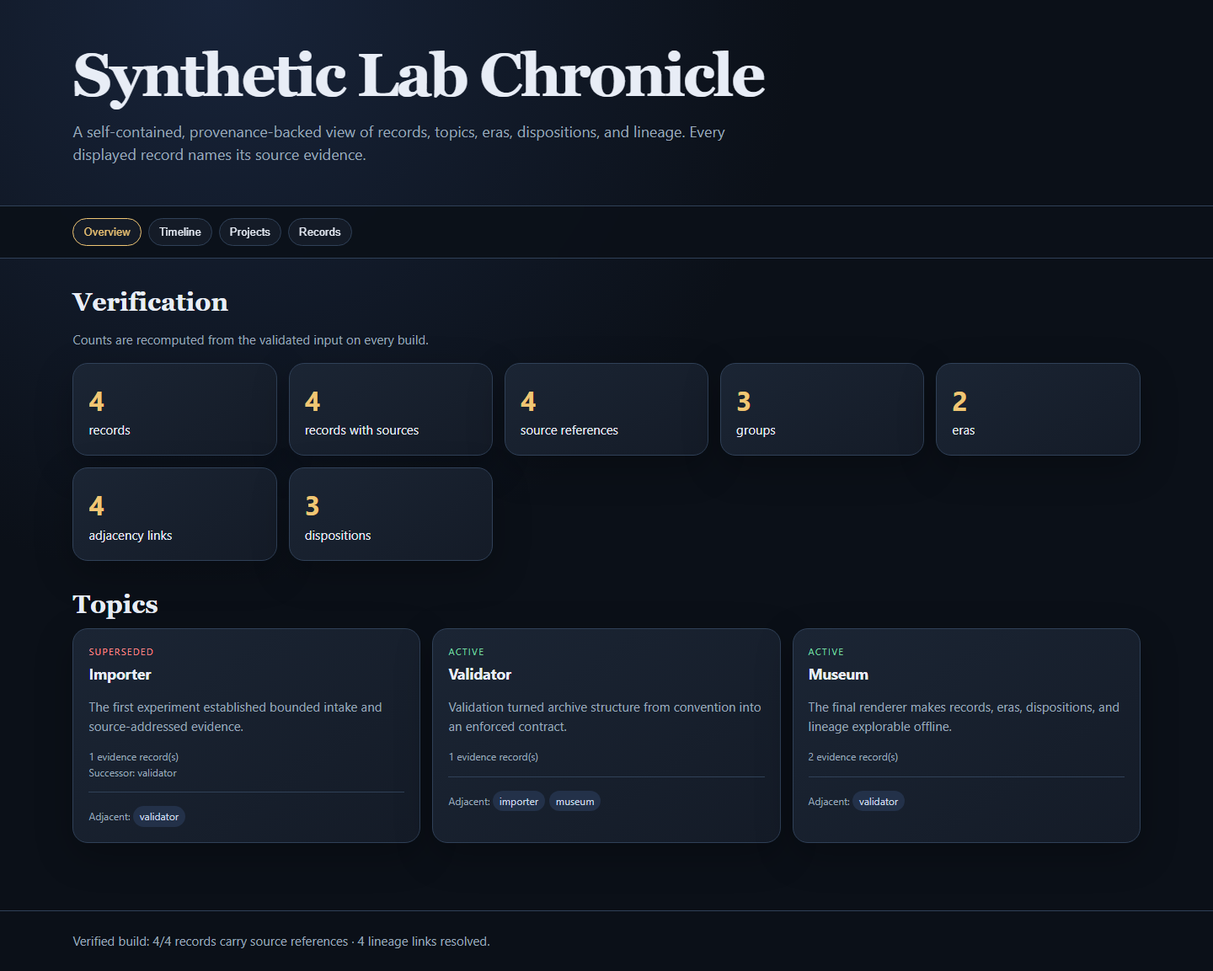
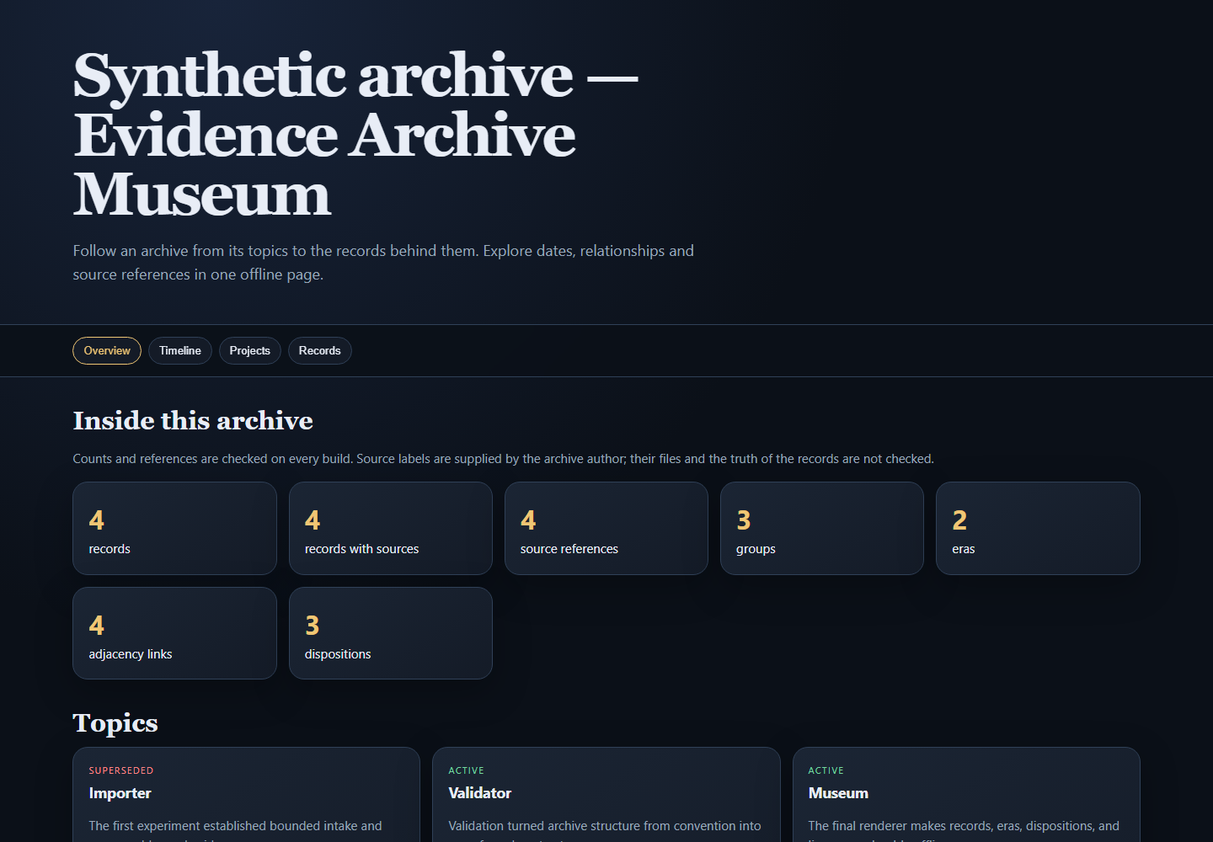
Let archive topics lead directly to searchable supporting records

diff --git a/example-site/index.html b/example-site/index.html
@@ -3,7 +3,7 @@
 <head>
 <meta charset="utf-8">
 <meta name="viewport" content="width=device-width,initial-scale=1">
-<title>Synthetic Lab Chronicle</title>
+<title>Synthetic archive — Evidence Archive Museum</title>
 <style>
 :root{--ink:#e8edf6;--muted:#9aa8ba;--panel:#141b27;--panel2:#1b2534;--line:#304158;--gold:#f0c674;--blue:#72b7ff;--green:#75d6a2;--red:#ff8585;--bg:#0b1018}
 *{box-sizing:border-box} body{margin:0;background:radial-gradient(circle at 18% 0,#18243a 0,transparent 42%),var(--bg);color:var(--ink);font:15px/1.55 Inter,ui-sans-serif,system-ui,sans-serif}
@@ -13,16 +13,17 @@ main{padding:34px clamp(22px,6vw,90px) 80px} section{display:none} section.activ
 .stats,.grid{display:grid;grid-template-columns:repeat(auto-fit,minmax(220px,1fr));gap:14px} .card,.stat,.era{background:linear-gradient(145deg,var(--panel2),var(--panel));border:1px solid var(--line);border-radius:18px;padding:18px;box-shadow:0 14px 44px #0004} .stat strong{display:block;color:var(--gold);font-size:32px} .card{min-height:150px} .tag{display:inline-block;margin:4px 5px 0 0;padding:3px 8px;border-radius:999px;background:#233149;color:#cbd8ea;font-size:12px} .status{color:var(--green);text-transform:uppercase;letter-spacing:.12em;font-size:11px} .superseded{color:var(--red)}
 .timeline{border-left:2px solid var(--line);margin-left:10px;padding-left:24px} .era{position:relative;margin:0 0 18px} .era:before{content:"";position:absolute;left:-33px;top:22px;width:16px;height:16px;border-radius:50%;background:var(--gold);box-shadow:0 0 22px var(--gold)}
 input{width:min(620px,100%);background:#0e1520;border:1px solid var(--line);border-radius:12px;padding:12px 14px;color:var(--ink);font:inherit;margin:12px 0 20px} .adjacent{margin-top:14px;padding-top:12px;border-top:1px solid var(--line)} footer{padding:24px clamp(22px,6vw,90px);border-top:1px solid var(--line);color:var(--muted)}
+.record-route{display:block;margin-top:16px;border-color:var(--blue);color:var(--blue)} button:focus-visible,input:focus-visible{outline:2px solid var(--gold);outline-offset:4px} [hidden]{display:none!important} .empty{padding:18px;border:1px dashed var(--line);border-radius:12px;color:var(--muted)}
 </style>
 </head>
 <body>
-<header><h1 id="museum-title"></h1><p class="lead">A self-contained, provenance-backed view of records, topics, eras, dispositions, and lineage. Every displayed record names its source evidence.</p></header>
+<header><h1 id="museum-title"></h1><p class="lead">Follow an archive from its topics to the records behind them. Explore dates, relationships and source references in one offline page.</p></header>
 <nav id="nav"></nav>
 <main>
-<section id="overview" class="active"><h2>Verification</h2><p class="muted">Counts are recomputed from the validated input on every build.</p><div id="stats" class="stats"></div><h2 style="margin-top:34px">Topics</h2><div id="overview-groups" class="grid"></div></section>
+<section id="overview" class="active"><h2>Inside this archive</h2><p class="muted">Counts and references are checked on every build. Source labels are supplied by the archive author; their files and the truth of the records are not checked.</p><div id="stats" class="stats"></div><h2 style="margin-top:34px">Topics</h2><div id="overview-groups" class="grid"></div></section>
 <section id="timeline"><h2>Timeline</h2><p class="muted">Eras are ordered from their ISO date ranges.</p><div id="eras" class="timeline"></div></section>
-<section id="projects"><h2>Projects and topics</h2><input id="group-search" placeholder="Filter topics, status, narrative…"><div id="groups" class="grid"></div></section>
-<section id="records"><h2>Evidence records</h2><input id="record-search" placeholder="Filter titles, summaries, tags, or source paths…"><div id="record-list" class="grid"></div></section>
+<section id="projects"><h2>Projects and topics</h2><input id="group-search" aria-label="Search topics" placeholder="Filter topics, status, narrative…"><div id="groups" class="grid"></div></section>
+<section id="records"><h2>Evidence records</h2><p id="record-scope" class="muted" aria-live="polite">All records</p><button id="clear-record-scope" hidden>Show all records</button><input id="record-search" aria-label="Search records" placeholder="Filter titles, summaries, tags, or source paths…"><div id="record-list" class="grid"></div></section>
 </main>
 <footer id="footer"></footer>
 <script type="application/json" id="archive-data">{"records":[{"id":"record-001","title":"First bounded importer","summary":"A prototype imported three synthetic notes and recorded a source path for every item.","date":"2025-03-12","sources":["evidence/importer/run-001.json"],"tags":["import","provenance"]},{"id":"record-002","title":"Validator added","summary":"Cross-reference validation began rejecting groups that pointed at missing records.","date":"2025-05-04","sources":["evidence/validator/test-report.json"],"tags":["validation","evidence"]},{"id":"record-003","title":"Offline museum generated","summary":"The archive became a dependency-free HTML view with searchable records and eras.","date":"2025-08-19","sources":["evidence/museum/build-summary.json"],"tags":["offline","visualization"]},{"id":"record-004","title":"Lineage made explicit","summary":"Supersession and adjacency were stored as data instead of inferred from prose.","date":"2025-09-02","sources":["evidence/lineage/review.md"],"tags":["lineage","governance"]}],"groups":[{"id":"importer","title":"Importer","narrative":"The first experiment established bounded intake and source-addressed evidence.","record_ids":["record-001"],"adjacent":["validator"]},{"id":"validator","title":"Validator","narrative":"Validation turned archive structure from convention into an enforced contract.","record_ids":["record-002"],"adjacent":["importer","museum"]},{"id":"museum","title":"Museum","narrative":"The final renderer makes records, eras, dispositions, and lineage explorable offline.","record_ids":["record-003","record-004"],"adjacent":["validator"]}],"eras":[{"id":"foundation","title":"Foundation","summary":"Intake and validation established the evidence contract.","start":"2025-03-01","end":"2025-06-30","group_ids":["importer","validator"]},{"id":"publication","title":"Publication","summary":"The archive gained a public-facing offline projection and explicit lineage.","start":"2025-07-01","end":"2025-12-31","group_ids":["museum"]}],"dispositions":{"importer":{"status":"superseded","successor":"validator","notes":"The importer remains as lineage evidence."},"validator":{"status":"active","successor":"","notes":"The contract remains reusable."},"museum":{"status":"active","successor":"","notes":"Current public projection."}},"verification":{"records":4,"records_with_sources":4,"source_references":4,"groups":3,"eras":2,"adjacency_links":4,"dispositions":3}}</script>
@@ -30,19 +31,23 @@ input{width:min(620px,100%);background:#0e1520;border:1px solid var(--line);bord
 const data=JSON.parse(document.getElementById('archive-data').textContent);
 const views=['overview','timeline','projects','records'];
 const el=(tag,text,cls)=>{const n=document.createElement(tag);if(text!==undefined)n.textContent=text;if(cls)n.className=cls;return n};
-document.getElementById('museum-title').textContent="Synthetic Lab Chronicle";
+document.getElementById('museum-title').textContent="Synthetic archive \u2014 Evidence Archive Museum";
 const nav=document.getElementById('nav');
-views.forEach((name,i)=>{const b=el('button',name[0].toUpperCase()+name.slice(1));b.className=i===0?'active':'';b.onclick=()=>{document.querySelectorAll('main section').forEach(s=>s.classList.toggle('active',s.id===name));nav.querySelectorAll('button').forEach(x=>x.classList.toggle('active',x===b))};nav.appendChild(b)});
+function showView(name){document.querySelectorAll('main section').forEach(s=>s.classList.toggle('active',s.id===name));nav.querySelectorAll('button').forEach(b=>{b.classList.toggle('active',b.dataset.view===name);b.setAttribute('aria-current',b.dataset.view===name?'page':'false')})}
+views.forEach(name=>{const b=el('button',name[0].toUpperCase()+name.slice(1));b.dataset.view=name;b.onclick=()=>{if(name==='records')showRecords(null);else showView(name)};nav.appendChild(b)});showView('overview');
+let selectedGroup=null;
+function showRecords(group){selectedGroup=group;document.getElementById('record-search').value='';document.getElementById('record-scope').textContent=group?'Records in '+group.title:'All records';document.getElementById('clear-record-scope').hidden=!group;renderRecords();showView('records');document.getElementById('record-search').focus()}
 Object.entries(data.verification).forEach(([k,v])=>{const n=el('div',undefined,'stat');n.append(el('strong',String(v)),el('span',k.replaceAll('_',' ')));document.getElementById('stats').appendChild(n)});
 const disposition=id=>data.dispositions[id]||{status:'record',successor:'',notes:''};
-function groupCard(g){const d=disposition(g.id),n=el('article',undefined,'card');const status=el('div',d.status,'status '+(d.status==='superseded'?'superseded':''));n.append(status,el('h3',g.title),el('p',g.narrative,'muted'),el('div',g.record_ids.length+' evidence record(s)','source'));if(d.successor)n.appendChild(el('div','Successor: '+d.successor,'source'));if(g.adjacent.length){const a=el('div',undefined,'adjacent');a.appendChild(el('span','Adjacent: ','source'));g.adjacent.forEach(x=>a.appendChild(el('span',x,'tag')));n.appendChild(a)}return n}
+function groupCard(g){const d=disposition(g.id),n=el('article',undefined,'card');const status=el('div',d.status,'status '+(d.status==='superseded'?'superseded':''));n.append(status,el('h3',g.title),el('p',g.narrative,'muted'),el('div',g.record_ids.length+' evidence record(s)','source'));if(d.successor)n.appendChild(el('div','Successor: '+d.successor,'source'));if(g.adjacent.length){const a=el('div',undefined,'adjacent');a.appendChild(el('span','Adjacent: ','source'));g.adjacent.forEach(x=>a.appendChild(el('span',x,'tag')));n.appendChild(a)}const button=el('button','Read '+g.record_ids.length+' record'+(g.record_ids.length===1?'':'s'),'record-route');button.setAttribute('aria-label','Read records in '+g.title);button.onclick=()=>showRecords(g);n.appendChild(button);return n}
 function recordCard(r){const n=el('article',undefined,'card');n.append(el('div',r.date,'status'),el('h3',r.title),el('p',r.summary,'muted'));const tags=el('div');r.tags.forEach(x=>tags.appendChild(el('span',x,'tag')));n.appendChild(tags);const sources=el('div',undefined,'adjacent');r.sources.forEach(x=>sources.appendChild(el('div',x,'source')));n.appendChild(sources);return n}
 data.groups.forEach(g=>document.getElementById('overview-groups').appendChild(groupCard(g)));
 data.eras.forEach(e=>{const n=el('article',undefined,'era');n.append(el('div',e.start+' → '+e.end,'status'),el('h3',e.title),el('p',e.summary,'muted'));const g=el('div');e.group_ids.forEach(x=>g.appendChild(el('span',x,'tag')));n.appendChild(g);document.getElementById('eras').appendChild(n)});
-function renderGroups(q=''){const root=document.getElementById('groups');root.replaceChildren();const needle=q.toLowerCase();data.groups.filter(g=>JSON.stringify([g,disposition(g.id)]).toLowerCase().includes(needle)).forEach(g=>root.appendChild(groupCard(g)))}
-function renderRecords(q=''){const root=document.getElementById('record-list');root.replaceChildren();const needle=q.toLowerCase();data.records.filter(r=>JSON.stringify(r).toLowerCase().includes(needle)).forEach(r=>root.appendChild(recordCard(r)))}
+function renderGroups(q=''){const root=document.getElementById('groups');root.replaceChildren();const needle=q.toLowerCase();const matches=data.groups.filter(g=>JSON.stringify([g,disposition(g.id)]).toLowerCase().includes(needle));matches.forEach(g=>root.appendChild(groupCard(g)));if(!matches.length)root.appendChild(el('p','No topics match. Try another term or clear the search.','empty'))}
+function renderRecords(q=''){const root=document.getElementById('record-list');root.replaceChildren();const needle=q.toLowerCase();const matches=data.records.filter(r=>(!selectedGroup||selectedGroup.record_ids.includes(r.id))&&JSON.stringify(r).toLowerCase().includes(needle));matches.forEach(r=>root.appendChild(recordCard(r)));if(!matches.length)root.appendChild(el('p','No records match this view. Clear the search or choose Show all records.','empty'))}
+document.getElementById('clear-record-scope').onclick=()=>showRecords(null);
 document.getElementById('group-search').oninput=e=>renderGroups(e.target.value);document.getElementById('record-search').oninput=e=>renderRecords(e.target.value);renderGroups();renderRecords();
-document.getElementById('footer').textContent=`Verified build: ${data.verification.records_with_sources}/${data.verification.records} records carry source references · ${data.verification.adjacency_links} lineage links resolved.`;
+document.getElementById('footer').textContent=`Structure checked: ${data.verification.records_with_sources}/${data.verification.records} records carry source labels · ${data.verification.adjacency_links} adjacency references resolved. Source contents are not embedded or fetched.`;
 </script>
 </body>
 </html>

diff --git a/evidence_archive_museum/render.py b/evidence_archive_museum/render.py
@@ -36,16 +36,17 @@ main{{padding:34px clamp(22px,6vw,90px) 80px}} section{{display:none}} section.a
 .stats,.grid{{display:grid;grid-template-columns:repeat(auto-fit,minmax(220px,1fr));gap:14px}} .card,.stat,.era{{background:linear-gradient(145deg,var(--panel2),var(--panel));border:1px solid var(--line);border-radius:18px;padding:18px;box-shadow:0 14px 44px #0004}} .stat strong{{display:block;color:var(--gold);font-size:32px}} .card{{min-height:150px}} .tag{{display:inline-block;margin:4px 5px 0 0;padding:3px 8px;border-radius:999px;background:#233149;color:#cbd8ea;font-size:12px}} .status{{color:var(--green);text-transform:uppercase;letter-spacing:.12em;font-size:11px}} .superseded{{color:var(--red)}}
 .timeline{{border-left:2px solid var(--line);margin-left:10px;padding-left:24px}} .era{{position:relative;margin:0 0 18px}} .era:before{{content:"";position:absolute;left:-33px;top:22px;width:16px;height:16px;border-radius:50%;background:var(--gold);box-shadow:0 0 22px var(--gold)}}
 input{{width:min(620px,100%);background:#0e1520;border:1px solid var(--line);border-radius:12px;padding:12px 14px;color:var(--ink);font:inherit;margin:12px 0 20px}} .adjacent{{margin-top:14px;padding-top:12px;border-top:1px solid var(--line)}} footer{{padding:24px clamp(22px,6vw,90px);border-top:1px solid var(--line);color:var(--muted)}}
+.record-route{{display:block;margin-top:16px;border-color:var(--blue);color:var(--blue)}} button:focus-visible,input:focus-visible{{outline:2px solid var(--gold);outline-offset:4px}} [hidden]{{display:none!important}} .empty{{padding:18px;border:1px dashed var(--line);border-radius:12px;color:var(--muted)}}
 </style>
 </head>
 <body>
-<header><h1 id="museum-title"></h1><p class="lead">A self-contained, provenance-backed view of records, topics, eras, dispositions, and lineage. Every displayed record names its source evidence.</p></header>
+<header><h1 id="museum-title"></h1><p class="lead">Follow an archive from its topics to the records behind them. Explore dates, relationships and source references in one offline page.</p></header>
 <nav id="nav"></nav>
 <main>
-<section id="overview" class="active"><h2>Verification</h2><p class="muted">Counts are recomputed from the validated input on every build.</p><div id="stats" class="stats"></div><h2 style="margin-top:34px">Topics</h2><div id="overview-groups" class="grid"></div></section>
+<section id="overview" class="active"><h2>Inside this archive</h2><p class="muted">Counts and references are checked on every build. Source labels are supplied by the archive author; their files and the truth of the records are not checked.</p><div id="stats" class="stats"></div><h2 style="margin-top:34px">Topics</h2><div id="overview-groups" class="grid"></div></section>
 <section id="timeline"><h2>Timeline</h2><p class="muted">Eras are ordered from their ISO date ranges.</p><div id="eras" class="timeline"></div></section>
-<section id="projects"><h2>Projects and topics</h2><input id="group-search" placeholder="Filter topics, status, narrative…"><div id="groups" class="grid"></div></section>
-<section id="records"><h2>Evidence records</h2><input id="record-search" placeholder="Filter titles, summaries, tags, or source paths…"><div id="record-list" class="grid"></div></section>
+<section id="projects"><h2>Projects and topics</h2><input id="group-search" aria-label="Search topics" placeholder="Filter topics, status, narrative…"><div id="groups" class="grid"></div></section>
+<section id="records"><h2>Evidence records</h2><p id="record-scope" class="muted" aria-live="polite">All records</p><button id="clear-record-scope" hidden>Show all records</button><input id="record-search" aria-label="Search records" placeholder="Filter titles, summaries, tags, or source paths…"><div id="record-list" class="grid"></div></section>
 </main>
 <footer id="footer"></footer>
 <script type="application/json" id="archive-data">{data}</script>
@@ -55,17 +56,21 @@ const views=['overview','timeline','projects','records'];
 const el=(tag,text,cls)=>{{const n=document.createElement(tag);if(text!==undefined)n.textContent=text;if(cls)n.className=cls;return n}};
 document.getElementById('museum-title').textContent={title_json};
 const nav=document.getElementById('nav');
-views.forEach((name,i)=>{{const b=el('button',name[0].toUpperCase()+name.slice(1));b.className=i===0?'active':'';b.onclick=()=>{{document.querySelectorAll('main section').forEach(s=>s.classList.toggle('active',s.id===name));nav.querySelectorAll('button').forEach(x=>x.classList.toggle('active',x===b))}};nav.appendChild(b)}});
+function showView(name){{document.querySelectorAll('main section').forEach(s=>s.classList.toggle('active',s.id===name));nav.querySelectorAll('button').forEach(b=>{{b.classList.toggle('active',b.dataset.view===name);b.setAttribute('aria-current',b.dataset.view===name?'page':'false')}})}}
+views.forEach(name=>{{const b=el('button',name[0].toUpperCase()+name.slice(1));b.dataset.view=name;b.onclick=()=>{{if(name==='records')showRecords(null);else showView(name)}};nav.appendChild(b)}});showView('overview');
+let selectedGroup=null;
+function showRecords(group){{selectedGroup=group;document.getElementById('record-search').value='';document.getElementById('record-scope').textContent=group?'Records in '+group.title:'All records';document.getElementById('clear-record-scope').hidden=!group;renderRecords();showView('records');document.getElementById('record-search').focus()}}
 Object.entries(data.verification).forEach(([k,v])=>{{const n=el('div',undefined,'stat');n.append(el('strong',String(v)),el('span',k.replaceAll('_',' ')));document.getElementById('stats').appendChild(n)}});
 const disposition=id=>data.dispositions[id]||{{status:'record',successor:'',notes:''}};
-function groupCard(g){{const d=disposition(g.id),n=el('article',undefined,'card');const status=el('div',d.status,'status '+(d.status==='superseded'?'superseded':''));n.append(status,el('h3',g.title),el('p',g.narrative,'muted'),el('div',g.record_ids.length+' evidence record(s)','source'));if(d.successor)n.appendChild(el('div','Successor: '+d.successor,'source'));if(g.adjacent.length){{const a=el('div',undefined,'adjacent');a.appendChild(el('span','Adjacent: ','source'));g.adjacent.forEach(x=>a.appendChild(el('span',x,'tag')));n.appendChild(a)}}return n}}
+function groupCard(g){{const d=disposition(g.id),n=el('article',undefined,'card');const status=el('div',d.status,'status '+(d.status==='superseded'?'superseded':''));n.append(status,el('h3',g.title),el('p',g.narrative,'muted'),el('div',g.record_ids.length+' evidence record(s)','source'));if(d.successor)n.appendChild(el('div','Successor: '+d.successor,'source'));if(g.adjacent.length){{const a=el('div',undefined,'adjacent');a.appendChild(el('span','Adjacent: ','source'));g.adjacent.forEach(x=>a.appendChild(el('span',x,'tag')));n.appendChild(a)}}const button=el('button','Read '+g.record_ids.length+' record'+(g.record_ids.length===1?'':'s'),'record-route');button.setAttribute('aria-label','Read records in '+g.title);button.onclick=()=>showRecords(g);n.appendChild(button);return n}}
 function recordCard(r){{const n=el('article',undefined,'card');n.append(el('div',r.date,'status'),el('h3',r.title),el('p',r.summary,'muted'));const tags=el('div');r.tags.forEach(x=>tags.appendChild(el('span',x,'tag')));n.appendChild(tags);const sources=el('div',undefined,'adjacent');r.sources.forEach(x=>sources.appendChild(el('div',x,'source')));n.appendChild(sources);return n}}
 data.groups.forEach(g=>document.getElementById('overview-groups').appendChild(groupCard(g)));
 data.eras.forEach(e=>{{const n=el('article',undefined,'era');n.append(el('div',e.start+' → '+e.end,'status'),el('h3',e.title),el('p',e.summary,'muted'));const g=el('div');e.group_ids.forEach(x=>g.appendChild(el('span',x,'tag')));n.appendChild(g);document.getElementById('eras').appendChild(n)}});
-function renderGroups(q=''){{const root=document.getElementById('groups');root.replaceChildren();const needle=q.toLowerCase();data.groups.filter(g=>JSON.stringify([g,disposition(g.id)]).toLowerCase().includes(needle)).forEach(g=>root.appendChild(groupCard(g)))}}
-function renderRecords(q=''){{const root=document.getElementById('record-list');root.replaceChildren();const needle=q.toLowerCase();data.records.filter(r=>JSON.stringify(r).toLowerCase().includes(needle)).forEach(r=>root.appendChild(recordCard(r)))}}
+function renderGroups(q=''){{const root=document.getElementById('groups');root.replaceChildren();const needle=q.toLowerCase();const matches=data.groups.filter(g=>JSON.stringify([g,disposition(g.id)]).toLowerCase().includes(needle));matches.forEach(g=>root.appendChild(groupCard(g)));if(!matches.length)root.appendChild(el('p','No topics match. Try another term or clear the search.','empty'))}}
+function renderRecords(q=''){{const root=document.getElementById('record-list');root.replaceChildren();const needle=q.toLowerCase();const matches=data.records.filter(r=>(!selectedGroup||selectedGroup.record_ids.includes(r.id))&&JSON.stringify(r).toLowerCase().includes(needle));matches.forEach(r=>root.appendChild(recordCard(r)));if(!matches.length)root.appendChild(el('p','No records match this view. Clear the search or choose Show all records.','empty'))}}
+document.getElementById('clear-record-scope').onclick=()=>showRecords(null);
 document.getElementById('group-search').oninput=e=>renderGroups(e.target.value);document.getElementById('record-search').oninput=e=>renderRecords(e.target.value);renderGroups();renderRecords();
-document.getElementById('footer').textContent=`Verified build: ${{data.verification.records_with_sources}}/${{data.verification.records}} records carry source references · ${{data.verification.adjacency_links}} lineage links resolved.`;
+document.getElementById('footer').textContent=`Structure checked: ${{data.verification.records_with_sources}}/${{data.verification.records}} records carry source labels · ${{data.verification.adjacency_links}} adjacency references resolved. Source contents are not embedded or fetched.`;
 </script>
 </body>
 </html>'''

diff --git a/README.md b/README.md
@@ -1,6 +1,10 @@
 # Evidence Archive Museum
 
-Build a portable, searchable exhibit from a structured archive. A small set of JSON/JSONL files becomes one self-contained HTML page with record, group and era navigation.
+Turn a folder of structured records into an exhibit someone can explore: start with a topic, open the records behind it, and follow its dates and relationships.
+
+The idea came from a practical archive problem: a polished story can lose its connection to the material it describes. Here the page is generated from explicit records, memberships and source references. Change the data and rebuild the view. The [public extraction](ORIGIN.md) replaces the original private archive with a small JSON contract and invented examples.
+
+**A portable offline generator.** Python builds one HTML file; the reader needs a browser and no account, service or database. [Walk through the example](docs/WORKED-EXAMPLE.md) · [Prepare your own archive](DATA_FORMAT.md)
 
 ![Synthetic demonstration](docs/images/museum-desktop.png)
 
@@ -14,15 +18,28 @@ python -m evidence_archive_museum.cli validate examples/synthetic_archive
 python -m evidence_archive_museum.cli build examples/synthetic_archive --output demo-museum.html
 ```
 
-Open `demo-museum.html` locally, or inspect the included [example exhibit](example-site/index.html). The [synthetic archive](examples/synthetic_archive/records.jsonl) has four records, three groups, two eras and four source references. Edit a copy of the input and rebuild to see how its relationships change. Existing output is protected unless `--force` is passed.
+Open `demo-museum.html` locally, or download and open the included [example exhibit](example-site/index.html). The [synthetic archive](examples/synthetic_archive/records.jsonl) has four records, three groups, two eras and four source references. Choose **Read 2 records** on the Museum topic: you should see “Offline museum generated” and “Lineage made explicit.” Search within that group, then choose **Show all records** to return to the full set.
+
+These four events and their source labels are invented demonstration data, not a history of this project's development. The [worked example](docs/WORKED-EXAMPLE.md) traces the inputs and explains every counter. Edit a copy of the input and rebuild to see how its relationships change. Existing output is protected unless `--force` is passed.
 
 ## How it works
 
-A small archive can carry its own navigable presentation without a service or database. Read the [mechanism and implementation notes](docs/MECHANISM.md) for the specific boundaries and source links.
+1. Load records, topic memberships, eras and dispositions from four files.
+2. Reject duplicate IDs, missing references, unsupported statuses and invalid date ranges.
+3. Recompute counts and embed the accepted data with the reader's code in one HTML file.
+4. Search and navigate that embedded data locally. No source files are opened by the reader.
+
+[Follow the implementation](docs/MECHANISM.md). Topic adjacency means a declared relationship; succession is separately recorded in dispositions. Neither is inferred from a title or a narrative.
 
 ## Scope
 
 Validation establishes internal structure, not truth of the records. Source-path fields are labels rather than links that the tool fetches. Treat archive inputs as the deliberate public selection: the renderer cannot decide which source material you are authorized to share.
+
+Use it for a selected project chronicle, experiment collection or small evidence catalogue. A private research vault requiring access controls, attached documents or automatic updates needs additional machinery. The input limits are 10,000 records, 1,000 groups and 200 eras, with file-size caps; these are validation limits, not a performance claim at those sizes.
+
+## Possible next steps
+
+Useful extensions could include an explicit reviewed attachment bundle and saved links to an individual record. These are current possibilities, not implemented features or a release promise. Keeping the exhibit portable and making source access deliberate are the design constraints for either.
 
 ## Verify
 

diff --git a/docs/WORKED-EXAMPLE.md b/docs/WORKED-EXAMPLE.md
@@ -1,0 +1,46 @@
+# From one record to an explorable archive
+
+This example is completely synthetic. The event dates, story and source paths illustrate the format; no original private records or evidence files are included.
+
+## Follow the Museum topic
+
+In [records.jsonl](../examples/synthetic_archive/records.jsonl), `record-003` is “Offline museum generated.” It has a date, a summary, tags and the label `evidence/museum/build-summary.json`. That label tells a reader what evidence the author refers to. It is not a file the tool has found or verified.
+
+In [groups.json](../examples/synthetic_archive/groups.json), the `museum` group explicitly lists `record-003` and `record-004`. The reader's **Read 2 records** button selects exactly those IDs. Searching `lineage` within that view leaves only “Lineage made explicit.” **Show all records** clears both the group selection and the search.
+
+In [eras.json](../examples/synthetic_archive/eras.json), `publication` lists the `museum` group for its July–December 2025 range. An era is authored grouping data; the loader checks ordered dates and valid group references. It does not automatically derive era membership from record dates or verify that every record lies within that interval.
+
+In [dispositions.json](../examples/synthetic_archive/dispositions.json), `museum` is active, while `importer` is superseded by `validator`. A successor is a separate claim from adjacency. The four directed adjacency references are importer → validator, validator → importer, validator → museum, and museum → validator.
+
+## Reproduce the build
+
+From a checkout, after installing with `python -m pip install -e .`:
+
+```sh
+python -m evidence_archive_museum.cli validate examples/synthetic_archive
+python -m evidence_archive_museum.cli build examples/synthetic_archive --output demo-museum.html --title "Synthetic archive — Evidence Archive Museum"
+```
+
+The validation prints:
+
+```json
+{
+  "records": 4,
+  "records_with_sources": 4,
+  "source_references": 4,
+  "groups": 3,
+  "eras": 2,
+  "adjacency_links": 4,
+  "dispositions": 3
+}
+```
+
+`records_with_sources` counts records containing at least one source label. `source_references` counts the labels, including repeats if supplied. `adjacency_links` counts the directed entries above; it is not the number of unique undirected pairs. None measures whether the evidence supports the author's claim.
+
+Open the HTML file in your browser. Overview shows these counts and topic cards; Timeline shows the two authored eras; Projects lets you search topics; Records lets you search the full set or a selected topic's members. The page contains its own script, style and data and needs no server. JavaScript is required for the interactive reader.
+
+## Make a safe change
+
+Copy the four example input files to a new directory. Change `record-003`'s title, validate that copied directory, and build to a new output filename. The record's topic membership stays intact because the group references its stable ID, not its title. Changing the ID without updating the group instead fails validation with a missing-record reference.
+
+Building to an existing output without `--force` fails and keeps the old file. Use a new filename when comparing editions. The inputs are read; the build writes only the requested output and its temporary file. Archive review and privacy selection happen before generation.

diff --git a/docs/MECHANISM.md b/docs/MECHANISM.md
@@ -2,6 +2,10 @@
 
 [load_archive](../evidence_archive_museum/archive.py) validates identities, source labels and references among records/groups/eras/dispositions. [render_html](../evidence_archive_museum/render.py) embeds the validated data safely into a portable reader and writes the final page atomically. See [DATA_FORMAT.md](../DATA_FORMAT.md) for the input schema. The output needs no server or database.
 
+The CLI loads and validates before rendering. `render_html` serializes only the normalized archive, escapes characters that could break out of its JSON script element, and uses DOM text content for record prose. `write_html` writes and flushes a temporary file beside the destination before replacing the destination. The CLI requires `--force` for an existing file; direct callers of `write_html` are responsible for their overwrite policy.
+
+The reader holds no separate database: topic-to-record navigation selects the exact IDs in `record_ids` from the embedded data. A record search is applied within that selection until **Show all records** or the Records navigation button clears it. The four input files remain the source of truth; editing the HTML does not update them. See the [worked example](WORKED-EXAMPLE.md) for one record's complete path.
+
 ## Limits that matter
 
 Validation establishes internal structure, not truth of the records. Source-path fields are labels rather than links that the tool fetches. Treat archive inputs as the deliberate public selection: the renderer cannot decide which source material you are authorized to share.

diff --git a/CHANGELOG.md b/CHANGELOG.md
@@ -1,0 +1,7 @@
+# Changes
+
+## 1.1.0
+
+Topic cards open their exact member records. Record search can stay within that topic, with an explicit route back to all records; empty searches explain how to recover. Navigation and search fields have accessible labels and visible keyboard focus.
+
+The example now traces a record through the four input files. Counts describe structural validation and adjacency references precisely; the reader does not imply that it fetched or verified source evidence. The data format and CLI remain compatible.
